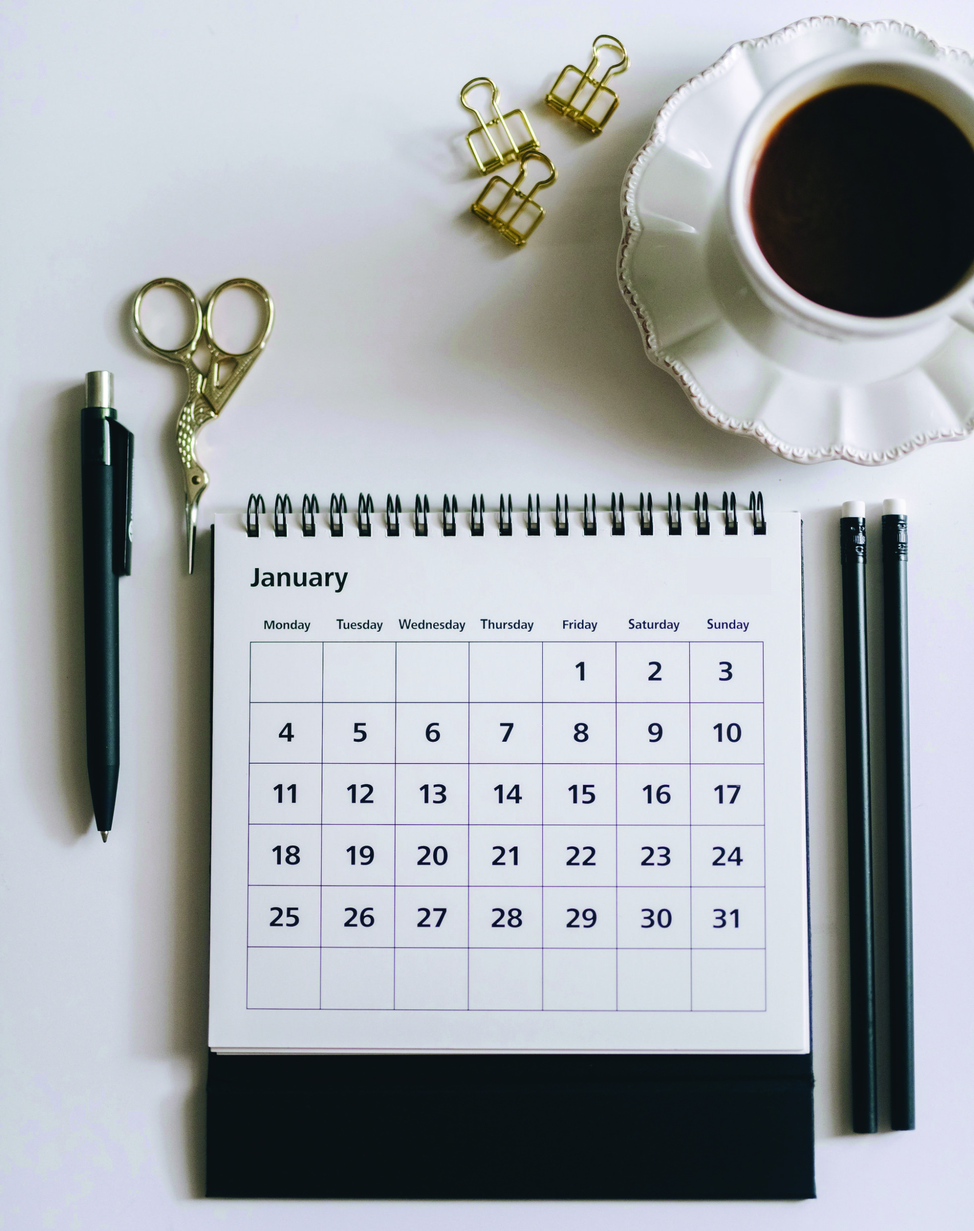
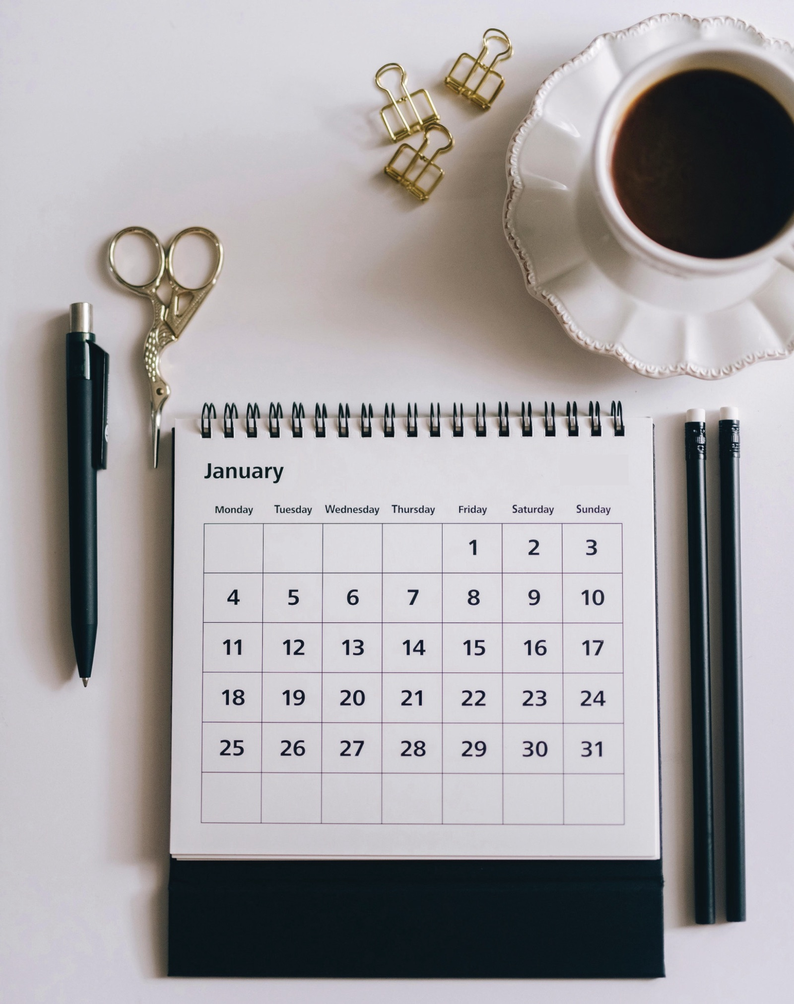
Give every interior page a full-bleed image hero matching the homepage
Rework PageHero into a full-bleed parallax image hero (espresso gradient
wash, brass eyebrow, oversized serif-italic heading) in the same language
as HomeHero, replacing the old cream/centered + split-portrait variants.

- Assign a unique hero image per page: menu-banner, team-banner,
  gallery-banner, cta-barista, events-diary, cafe-interior (about),
  coffee-moment (blog).
- Fold the redundant LandscapeBanner block on Menu/Team/Gallery into the
  hero (still sourced from existing hero_landscape_image content fields).
- Switch About hero off street-entrance.jpeg (no WebP, wrong extension)
  to cafe-interior.
- Generate missing WebP siblings (events-diary, coffee-moment) and re-save
  events-diary.jpg as sRGB (was CMYK).

Changed region(s): [[0.4688, 0.0623, 0.5625, 0.2181], [0.5625, 0.0312, 0.6562, 0.1246], [0.1875, 0.2493, 0.25, 0.3427]]

diff --git a/src/components/PageHero.tsx b/src/components/PageHero.tsx
@@ -1,69 +1,80 @@
 import type { ReactNode } from "react";
 import { FadeIn } from "./FadeIn";
 import { withBase } from "./../utils/url";
+import { useParallax } from "./useParallax";
 
 interface PageHeroProps {
   label?: string;
   heading: string;
   subheading?: string;
-  /** Optional portrait image → renders the split (text + image) variant. */
+  /** Full-bleed background image (extension-less; WebP+JPG pattern). */
   image?: string;
   imageAlt?: string;
+  /** Text alignment of the overlay. Defaults to left, matching the homepage hero. */
+  align?: "left" | "center";
   /** Extra content under the subheading (e.g. a CTA). */
   children?: ReactNode;
 }
 
 /**
- * Consistent interior-page hero: brass eyebrow + big serif-italic heading.
- * Centered by default; pass `image` for the asymmetric split variant.
+ * Interior-page hero in the same language as the homepage hero:
+ * full-bleed parallax image, warm espresso gradient, brass eyebrow + big
+ * serif-italic heading set over the photo. Falls back to a clean espresso
+ * band if no image is supplied.
  */
-export function PageHero({ label, heading, subheading, image, imageAlt, children }: PageHeroProps) {
-  if (image) {
-    return (
-      <section className="bg-cream pt-28 md:pt-36 pb-16 md:pb-24 overflow-hidden">
-        <div className="max-w-6xl mx-auto px-4 sm:px-6 lg:px-8">
-          <div className="grid md:grid-cols-12 gap-10 lg:gap-16 items-center">
-            <FadeIn className="md:col-span-7">
-              {label && (
-                <span className="inline-flex items-center gap-3 mb-5 text-sage">
-                  <span className="w-10 rule-brass" />
-                  <span className="eyebrow">{label}</span>
-                </span>
-              )}
-              <h1 className="font-serif italic text-balance mb-4 [font-size:clamp(44px,6.5vw,84px)] [line-height:1.0]">
-                {heading}
-              </h1>
-              {subheading && <p className="text-xl text-text-muted max-w-xl">{subheading}</p>}
-              {children && <div className="mt-8">{children}</div>}
-            </FadeIn>
-            <FadeIn delay={0.15} className="md:col-span-5">
-              <div className="aspect-[4/5] rounded-[28px] overflow-hidden border border-border shadow-[0_40px_90px_-40px_rgba(23,14,7,0.5)]">
-                <img src={withBase(image)} alt={imageAlt ?? heading} className="w-full h-full object-cover" loading="eager" />
-              </div>
-            </FadeIn>
-          </div>
-        </div>
-      </section>
-    );
-  }
+export function PageHero({ label, heading, subheading, image, imageAlt, align = "left", children }: PageHeroProps) {
+  const parallaxRef = useParallax<HTMLDivElement>({ intensity: 70 });
+
+  const base = image?.replace(/\.(webp|jpe?g|png)$/i, "");
+  const webp = base ? `${base}.webp` : undefined;
+  const jpg = base ? `${base}.jpg` : undefined;
+
+  const centered = align === "center";
 
   return (
-    <section className="bg-cream pt-28 md:pt-36 pb-14 md:pb-20">
-      <div className="max-w-3xl mx-auto px-4 text-center">
-        <FadeIn>
-          {label && (
-            <span className="inline-flex items-center gap-3 mb-5 text-sage justify-center">
-              <span className="w-10 rule-brass" />
-              <span className="eyebrow">{label}</span>
-              <span className="w-10 rule-brass" />
-            </span>
-          )}
-          <h1 className="font-serif italic text-balance mb-5 [font-size:clamp(44px,6.5vw,84px)] [line-height:1.0]">
-            {heading}
-          </h1>
-          {subheading && <p className="text-xl text-text-muted">{subheading}</p>}
-          {children && <div className="mt-8">{children}</div>}
-        </FadeIn>
+    <section className="relative overflow-hidden bg-espresso">
+      {image && (
+        <div ref={parallaxRef} className="absolute inset-0" aria-hidden="true">
+          <picture>
+            <source srcSet={withBase(webp!)} type="image/webp" />
+            <img
+              src={withBase(jpg!)}
+              alt=""
+              className="absolute inset-0 w-full h-full object-cover scale-110"
+              loading="eager"
+              fetchPriority="high"
+              style={{ transform: "translate3d(0, var(--parallax-y, 0px), 0)", willChange: "transform" }}
+            />
+          </picture>
+          {/* Warm espresso wash — keeps the headline legible, lets the photo breathe */}
+          <div className="absolute inset-0 bg-gradient-to-t from-espresso via-espresso/60 to-espresso/40" />
+          <div className="absolute inset-0 bg-gradient-to-r from-espresso/50 via-transparent to-espresso/25 hidden md:block" />
+        </div>
+      )}
+
+      {imageAlt && <span className="sr-only">{imageAlt}</span>}
+
+      <div className="relative min-h-[56vh] md:min-h-[62vh] flex items-center">
+        <div className="max-w-7xl mx-auto px-4 sm:px-6 lg:px-8 py-28 md:py-32 w-full">
+          <FadeIn className={`max-w-4xl text-white ${centered ? "mx-auto text-center" : ""}`}>
+            {label && (
+              <span className={`inline-flex items-center gap-3 mb-6 text-white/80 ${centered ? "justify-center" : ""}`}>
+                <span className="w-10 rule-brass" />
+                <span className="eyebrow">{label}</span>
+                {centered && <span className="w-10 rule-brass" />}
+              </span>
+            )}
+            <h1 className="font-serif italic text-balance text-white mb-5 [font-size:clamp(46px,7vw,92px)] [line-height:0.98] [letter-spacing:-1.5px]">
+              {heading}
+            </h1>
+            {subheading && (
+              <p className={`font-serif italic text-balance text-white/85 [font-size:clamp(19px,2.4vw,28px)] ${centered ? "mx-auto" : ""} max-w-2xl`}>
+                {subheading}
+              </p>
+            )}
+            {children && <div className="mt-9">{children}</div>}
+          </FadeIn>
+        </div>
       </div>
     </section>
   );

diff --git a/src/components/pages/TeamPage.tsx b/src/components/pages/TeamPage.tsx
@@ -3,7 +3,6 @@ import { Footer } from "../Footer";
 import { FadeIn } from "../FadeIn";
 import { PageHero } from "../PageHero";
 import { ClosingCTA } from "../ClosingCTA";
-import { LandscapeBanner } from "../LandscapeBanner";
 import { withBase } from "../../utils/url";
 import type { TeamMember } from "../../utils/team";
 
@@ -37,19 +36,13 @@ export function TeamPage({
     <>
       <Navbar />
       <main>
-        <PageHero label={heroLabel} heading={heroHeading} subheading={heroSubheading} />
-
-        {heroLandscapeImage && (
-          <section className="bg-cream pb-10 md:pb-14 px-4 sm:px-6 lg:px-8">
-            <LandscapeBanner
-              image={heroLandscapeImage}
-              imageAlt={heroLandscapeImageAlt ?? "The Cafeina team at work"}
-              aspect="wide"
-              priority
-              parallax
-            />
-          </section>
-        )}
+        <PageHero
+          label={heroLabel}
+          heading={heroHeading}
+          subheading={heroSubheading}
+          image={heroLandscapeImage ?? "/images/hero/team-banner"}
+          imageAlt={heroLandscapeImageAlt ?? "The Cafeina team at work"}
+        />
 
         <section className="py-16 md:py-24 bg-white">
           <div className="max-w-6xl mx-auto px-4 sm:px-6 lg:px-8">

diff --git a/src/components/pages/GalleryPage.tsx b/src/components/pages/GalleryPage.tsx
@@ -3,7 +3,6 @@ import { Footer } from "../Footer";
 import { PageHero } from "../PageHero";
 import { ClosingCTA } from "../ClosingCTA";
 import { FadeIn } from "../FadeIn";
-import { LandscapeBanner } from "../LandscapeBanner";
 import { withBase } from "../../utils/url";
 
 export interface GalleryImageData {
@@ -43,13 +42,13 @@ export function GalleryPage({
     <>
       <Navbar />
       <main>
-        <PageHero label={heroLabel} heading={heroHeading} subheading={heroSubheading} />
-
-        {heroLandscapeImage && (
-          <section className="bg-cream pb-12 md:pb-16 px-4 sm:px-6 lg:px-8">
-            <LandscapeBanner image={heroLandscapeImage} imageAlt={heroLandscapeImageAlt ?? "Gallery of Cafeina"} aspect="wide" priority parallax />
-          </section>
-        )}
+        <PageHero
+          label={heroLabel}
+          heading={heroHeading}
+          subheading={heroSubheading}
+          image={heroLandscapeImage ?? "/images/hero/gallery-banner"}
+          imageAlt={heroLandscapeImageAlt ?? "A warm Cafeina flatlay — drinks, photos and candlelight"}
+        />
 
         <section className="py-12 md:py-16 bg-white">
           <div className="max-w-6xl mx-auto px-4 sm:px-6 lg:px-8">

diff --git a/src/components/pages/MenuPage.tsx b/src/components/pages/MenuPage.tsx
@@ -2,7 +2,6 @@ import { Navbar } from "../Navbar";
 import { Footer } from "../Footer";
 import { PageHero } from "../PageHero";
 import { ClosingCTA } from "../ClosingCTA";
-import { LandscapeBanner } from "../LandscapeBanner";
 import { MenuExplorer } from "../MenuExplorer";
 import type { MenuCategory, MenuItemData } from "../../utils/menu";
 
@@ -35,13 +34,13 @@ export function MenuPage({
     <>
       <Navbar />
       <main>
-        <PageHero label={heroLabel} heading={heroHeading} subheading={heroSubheading} />
-
-        {heroLandscapeImage && (
-          <section className="bg-cream pb-10 md:pb-14 px-4 sm:px-6 lg:px-8">
-            <LandscapeBanner image={heroLandscapeImage} imageAlt={heroLandscapeImageAlt ?? "Cafeina menu"} aspect="wide" priority parallax />
-          </section>
-        )}
+        <PageHero
+          label={heroLabel}
+          heading={heroHeading}
+          subheading={heroSubheading}
+          image={heroLandscapeImage ?? "/images/hero/menu-banner"}
+          imageAlt={heroLandscapeImageAlt ?? "Cocktails and drinks on the bar at Cafeina"}
+        />
 
         <MenuExplorer categories={categories} items={items} note={note} />
 

diff --git a/src/components/pages/ContactPage.tsx b/src/components/pages/ContactPage.tsx
@@ -47,7 +47,7 @@ export function ContactPage({
     <>
       <Navbar />
       <main>
-        <PageHero label={heroLabel} heading={heroHeading} subheading={heroSubheading} />
+        <PageHero label={heroLabel} heading={heroHeading} subheading={heroSubheading} image="/images/hero/cta-barista" imageAlt="A warm welcome at the Cafeina bar" />
 
         <div className="bg-cream pb-24">
           <div className="max-w-6xl mx-auto px-4 sm:px-6 lg:px-8 w-full">

diff --git a/src/components/pages/BlogPage.tsx b/src/components/pages/BlogPage.tsx
@@ -150,7 +150,7 @@ export function BlogPage({
     <>
       <Navbar />
       <main>
-        <PageHero label={heroLabel} heading={heroHeading} subheading={heroSubheading} />
+        <PageHero label={heroLabel} heading={heroHeading} subheading={heroSubheading} image="/images/hero/coffee-moment" imageAlt="A freshly poured coffee at Cafeina" />
 
         {hasPosts ? (
           <>

diff --git a/src/content/pages/about.md b/src/content/pages/about.md
@@ -7,8 +7,8 @@ seo_description: "Discover Caféina's story. A family-owned café in La Marina u
 hero_label: "a family tradition"
 hero_heading: "serving with love"
 hero_subheading: "since 2009"
-hero_image: "/images/hero/street-entrance.jpeg"
-hero_image_alt: "The Cafeina storefront on Calle Luis de Gongora"
+hero_image: "/images/hero/cafe-interior"
+hero_image_alt: "Inside Cafeina — warm light and eclectic vintage furniture"
 
 story_heading: "our story"
 story_body: |
